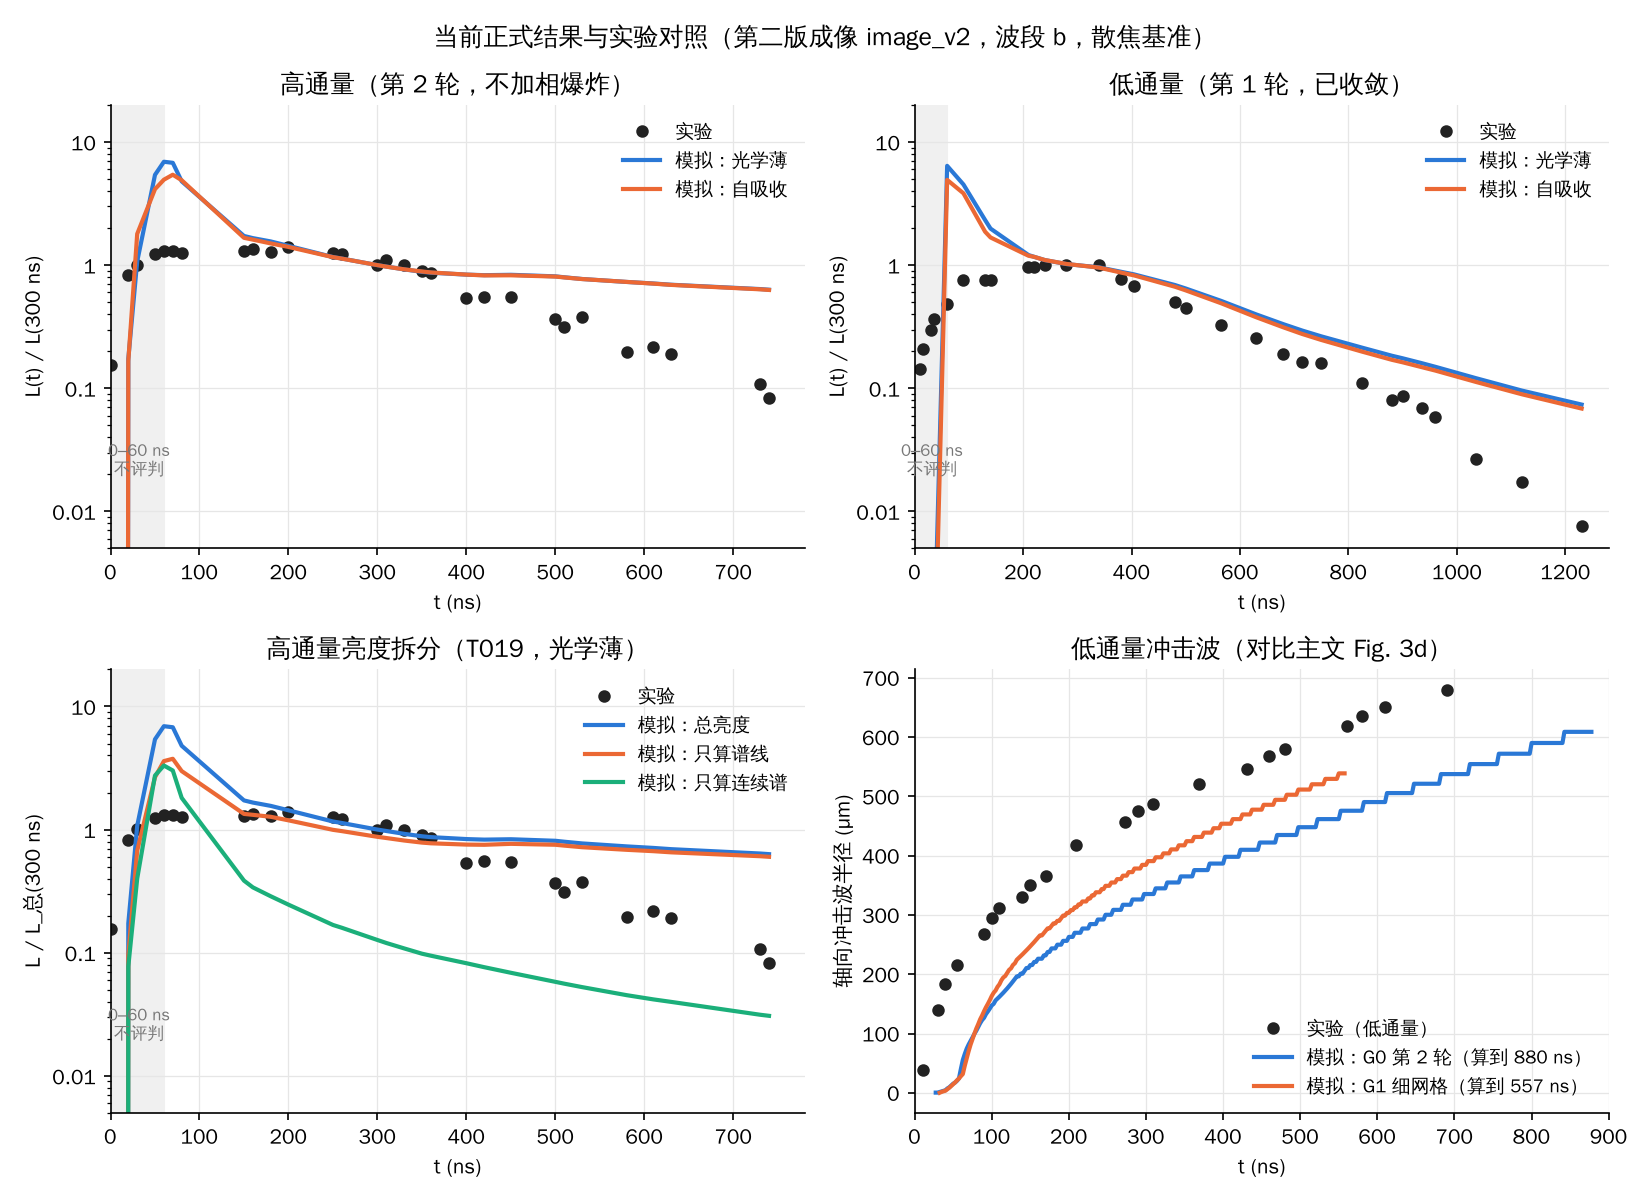
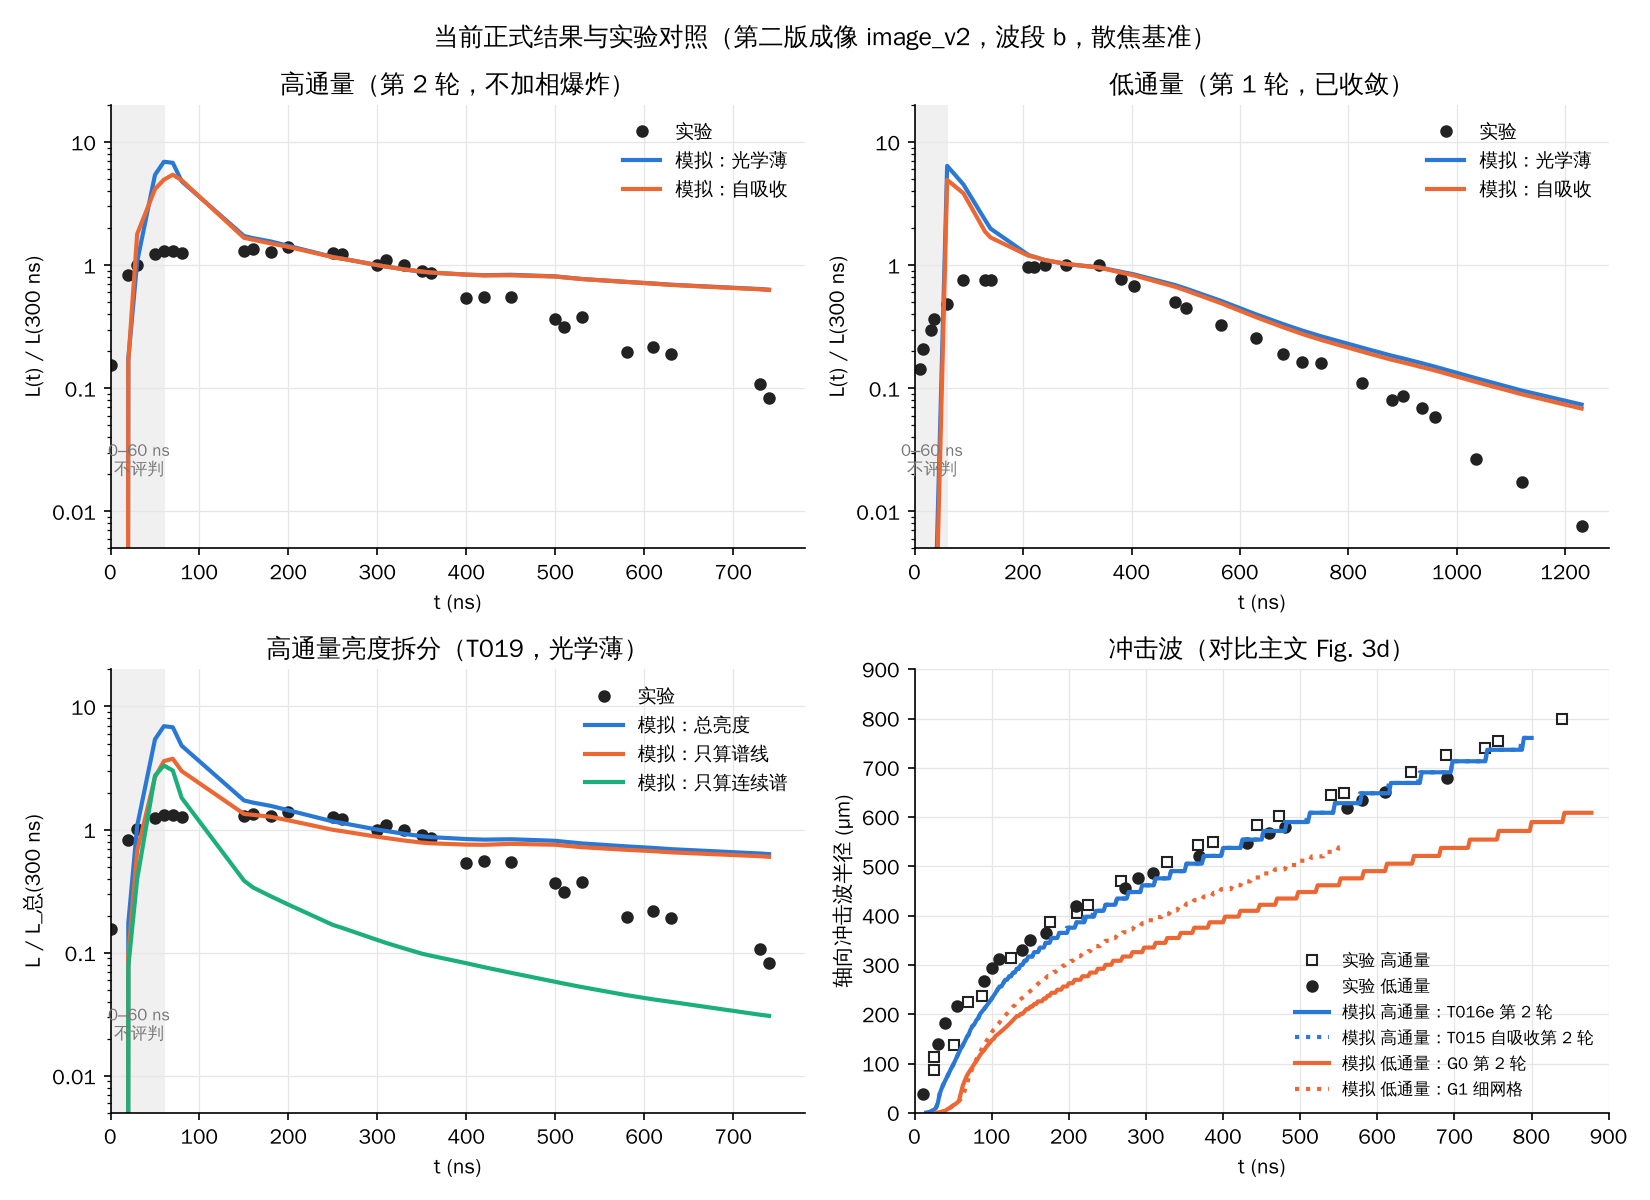
Figures: high-fluence shock added; frame-by-frame comparison (Fig. S4 style); close T022
Claude-Session: https://claude.ai/code/session_01FS7WDGPKzwdDyXZyPwrs24

diff --git a/scripts/plot_frames_vs_exp.py b/scripts/plot_frames_vs_exp.py
@@ -1,0 +1,60 @@
+"""Frame-by-frame comparison (Fig. S4 style): experiment vs reported model members (image_v2, filter b).
+    python scripts/plot_frames_vs_exp.py  ->  results/figures/frames_{high,low}.png
+The model frame is blurred with the baseline defocus and scaled to 8 bit with the single per-series gain fixed at
+t_ref = 300 ns, exactly as in lipsim.image.run (camera.blur, gain_for_reference, to_8bit). Both rows share one gray scale."""
+import sys
+from pathlib import Path
+
+import matplotlib
+matplotlib.use("Agg")
+import matplotlib.pyplot as plt
+import numpy as np
+import pandas as pd
+import yaml
+from matplotlib import font_manager
+from PIL import Image
+
+sys.path.insert(0, str(Path(__file__).resolve().parents[1] / "src"))
+from lipsim import params as P  # noqa: E402
+from lipsim.image import camera  # noqa: E402
+
+f = "/usr/share/fonts/truetype/wqy/wqy-zenhei.ttc"
+try:
+    font_manager.fontManager.addfont(f)
+    plt.rcParams["font.family"] = font_manager.FontProperties(fname=f).get_name()
+except Exception:
+    pass
+T_REF = 300  # num (ns, registry t_ref_norm)
+MEMBERS = {"high": ("results/T016e/high_thin_G0/it2/image_v2", [80, 150, 200, 300, 400, 500, 580, 630, 730]),
+           "low": ("results/T016e/low_thin_G0/it1/image_v2", [90, 140, 210, 280, 380, 500, 630, 750, 900, 1035, 1230])}
+meta = yaml.safe_load(open("data/exp/meta.yaml"))["sets"]
+dfoc = P.get("defocus_um_scenarios")["baseline"]
+
+for series, (path, times) in MEMBERS.items():
+    exp = pd.read_csv(f"data/exp/metrics_{series}.csv").groupby("t_ns", as_index=False).mean(numeric_only=True)
+    L_ref = float(np.interp(T_REF, exp.t_ns, exp.L))
+    files = {fr["t_ns"]: fr["file"] for fr in meta[series]["frames"]}
+    fig, ax = plt.subplots(len(("thin", "sa")) + 1, len(times), figsize=(1.45 * len(times), 5.0))
+    for row, sa in enumerate(("thin", "sa"), start=1):
+        d = np.load(f"{path}/frames_b_{sa}.npz")
+        um = float(d["um_per_px"])
+        fr = {int(t): camera.blur(x, um, dfoc) for t, x in zip(d["t_ns"], d["radiance"]) if np.isfinite(x).all()}
+        g = camera.gain_for_reference(fr[min(fr, key=lambda t: abs(t - T_REF))], L_ref)
+        for c, t in enumerate(times):
+            a = ax[row, c]
+            if t in fr:
+                a.imshow(camera.to_8bit(fr[t], g), cmap="inferno", vmin=0, vmax=255)
+            a.set_xticks([]); a.set_yticks([])
+            if c == 0:
+                a.set_ylabel("模拟\n光学薄" if sa == "thin" else "模拟\n自吸收", fontsize=9)
+    for c, t in enumerate(times):
+        a = ax[0, c]
+        a.imshow(np.array(Image.open(f"data/exp/frames/{series}/{files[t]}")), cmap="inferno", vmin=0, vmax=255)
+        a.set_title(f"{t} ns", fontsize=9); a.set_xticks([]); a.set_yticks([])
+        if c == 0:
+            a.set_ylabel("实验", fontsize=9)
+    name = {"high": "高通量（T016e 第 2 轮）", "low": "低通量（T016e 第 1 轮）"}[series]
+    fig.suptitle(f"{name}：逐帧对照（波段 b，散焦 {dfoc} µm，同一 8 位灰度，增益在 300 ns 对齐）", fontsize=11)
+    fig.tight_layout()
+    fig.savefig(f"results/figures/frames_{series}.png", dpi=150)
+    plt.close(fig)

diff --git a/scripts/plot_current_vs_exp.py b/scripts/plot_current_vs_exp.py
@@ -65,14 +65,18 @@ a.legend(frameon=False, fontsize=9)
 
 a = ax[1, 1]
 e = pd.read_csv("data/exp/curves/fig3d_shock.csv", comment="#")
-ee = e[e.fluence == "low"]
-a.plot(ee.t_ns, ee.R_um, "o", color=K, ms=5, label="实验（低通量）")
-g0 = pd.read_csv("results/T016e/low_thin_G0/it2/shock_track.csv")
-g1 = pd.read_csv("results/T016e_r/low_thin_G1/it0/diagnostics/shock_track.csv")
-a.plot(g0.t_ns, g0.R_axis_um, "-", color=B, lw=2, label="模拟：G0 第 2 轮（算到 880 ns）")
-a.plot(g1.t_ns, g1.R_axis_um, "-", color=O, lw=2, label="模拟：G1 细网格（算到 557 ns）")
-a.set(xlim=(0, 900), xlabel="t (ns)", ylabel="轴向冲击波半径 (µm)", title="低通量冲击波（对比主文 Fig. 3d）")
-a.legend(frameon=False, fontsize=9)
+for fl, mk, lab in (("high", "s", "实验 高通量"), ("low", "o", "实验 低通量")):
+    ee = e[e.fluence == fl]
+    a.plot(ee.t_ns, ee.R_um, mk, color=K, ms=5, mfc="none" if fl == "high" else K, label=lab)
+runs = (("results/T016e/high_thin_G0/it2/shock_track.csv", B, "-", "模拟 高通量：T016e 第 2 轮"),
+        ("results/shock/T015_high_trap_G0_it2.csv", B, ":", "模拟 高通量：T015 自吸收第 2 轮"),
+        ("results/T016e/low_thin_G0/it2/shock_track.csv", O, "-", "模拟 低通量：G0 第 2 轮"),
+        ("results/T016e_r/low_thin_G1/it0/diagnostics/shock_track.csv", O, ":", "模拟 低通量：G1 细网格"))
+for f, c, ls, lab in runs:
+    g = pd.read_csv(f)
+    a.plot(g.t_ns, g.R_axis_um, ls, color=c, lw=2, label=lab)
+a.set(xlim=(0, 900), ylim=(0, 900), xlabel="t (ns)", ylabel="轴向冲击波半径 (µm)", title="冲击波（对比主文 Fig. 3d）")
+a.legend(frameon=False, fontsize=8, loc="lower right")
 for a in (ax[0, 0], ax[0, 1], ax[1, 0]):
     a.yaxis.set_major_formatter(LOGFMT)
 fig.suptitle("当前正式结果与实验对照（第二版成像 image_v2，波段 b，散焦基准）", fontsize=12)

diff --git a/docs/STATE.md b/docs/STATE.md
@@ -396,3 +396,7 @@ Updated: 2026-11-15
   - With DROP_M = 0, v1j is bit-identical to v1i.
   - With droplets on (smoke grid), breakdown and gas absorption are unchanged. The net heat sink is ≈ 8 µJ by 300 ns, about 1.3 MJ/kg: droplets at T_cap already carry e_vap(T_cap), and only L_v − e_vap(T_cap) is drawn. M_Cu rises from 1.8 to 5.4 ng.
 - The release window was moved from the pulse FWHM to the end of the pulse–t_ref after the first smoke test. Pulse-time release suppressed breakdown, which confounds ignition with the late-cooling question. This is recorded in PREREG before any production run.
+
+## 2026-11-24 09:10 — comparison figures (T022 data): results/figures/{current_vs_experiment,frames_high,frames_low}.png
+- High-fluence shock (T016e high thin it2) vs Fig. 3d: −12% at 125 ns, −5…−7% at 200–480 ns, −2…−6% at 540–840 ns. T015 high trap it2, the source of the earlier "3–4%" statement, gives the same at these times; the front is grid-quantised.
+- Frame geometry, an observation that is **not yet a metric**: the experimental band-b plume centroid sits zc ≈ 350–430 µm above the frame bottom (high fluence, 150–730 ns), with σ_z² 4–5× the model's. The model plume sits on the target, zc ≈ 100 µm, with its brightest pixels saturated at 8 bit. The low series looks the same. The target-surface row of the experimental crops is still unknown (DATA_NOTES "open questions"). Either the crop is not bottom-aligned with the surface, or the experimental emission is detached from the target. This matters for how the frames are compared, though not for the integrated L(t) metrics. Open item: establish the surface position in Fig. S4 before any shape metric is judged.

diff --git a/tasks/T022-push-shock-frames.md b/tasks/T022-push-shock-frames.md
@@ -2,7 +2,7 @@
 id: T022
 title: Push high-fluence shock track and image_v2 frames of the reported members (light, for the comparison figure)
 owner: codex
-status: review
+status: done
 started: 2026-11-24T08:54:15+08:00
 depends: []
 milestone: D2
